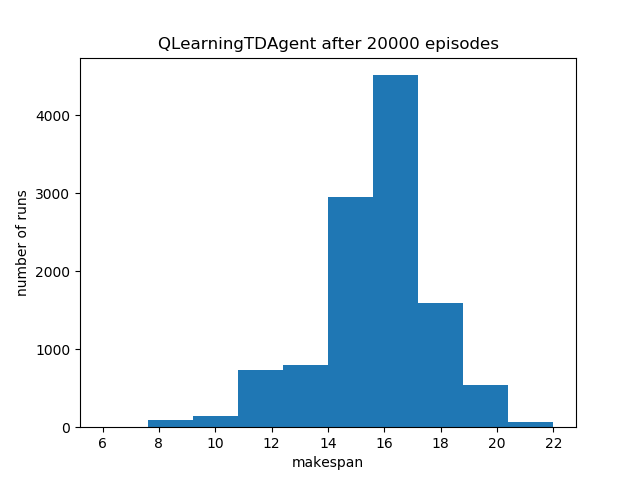
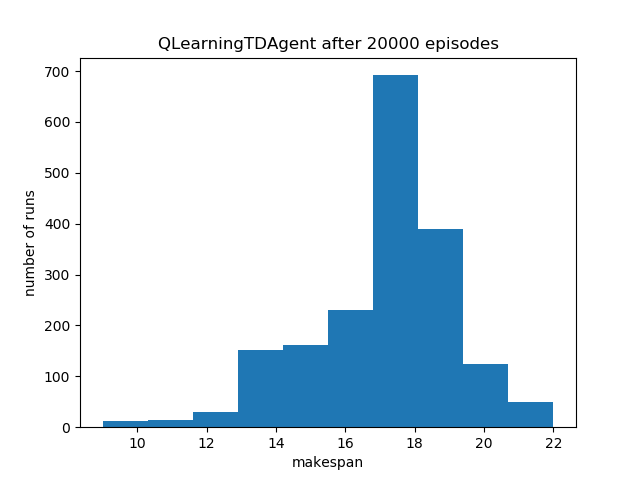
fixed check for pass/fail

diff --git a/day4/rl/jobshop/jobshop_scheduling_demo.py b/day4/rl/jobshop/jobshop_scheduling_demo.py
@@ -37,7 +37,7 @@ Reward: {reward}, Done: {done}, Info: {info}')
             if done:
                 print(f'Episode finished after {s+1} actions\n')
                 done = False # reset for next episode
-                if all(obs['is_scheduled']) and reward > 0:
+                if all(obs['is_scheduled']) and not info.get("errors"):
                     success_history.append([episode, info['makespan']])
                 break
 
